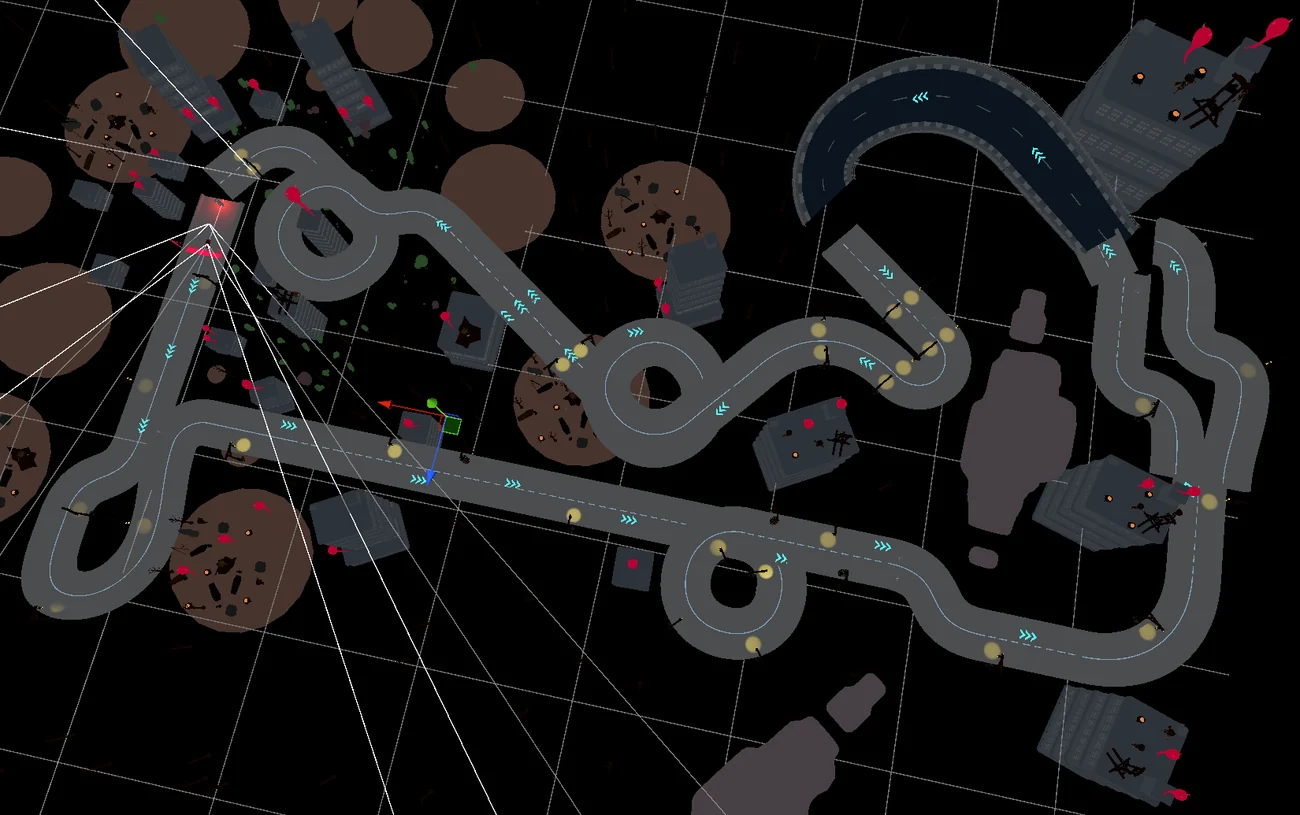
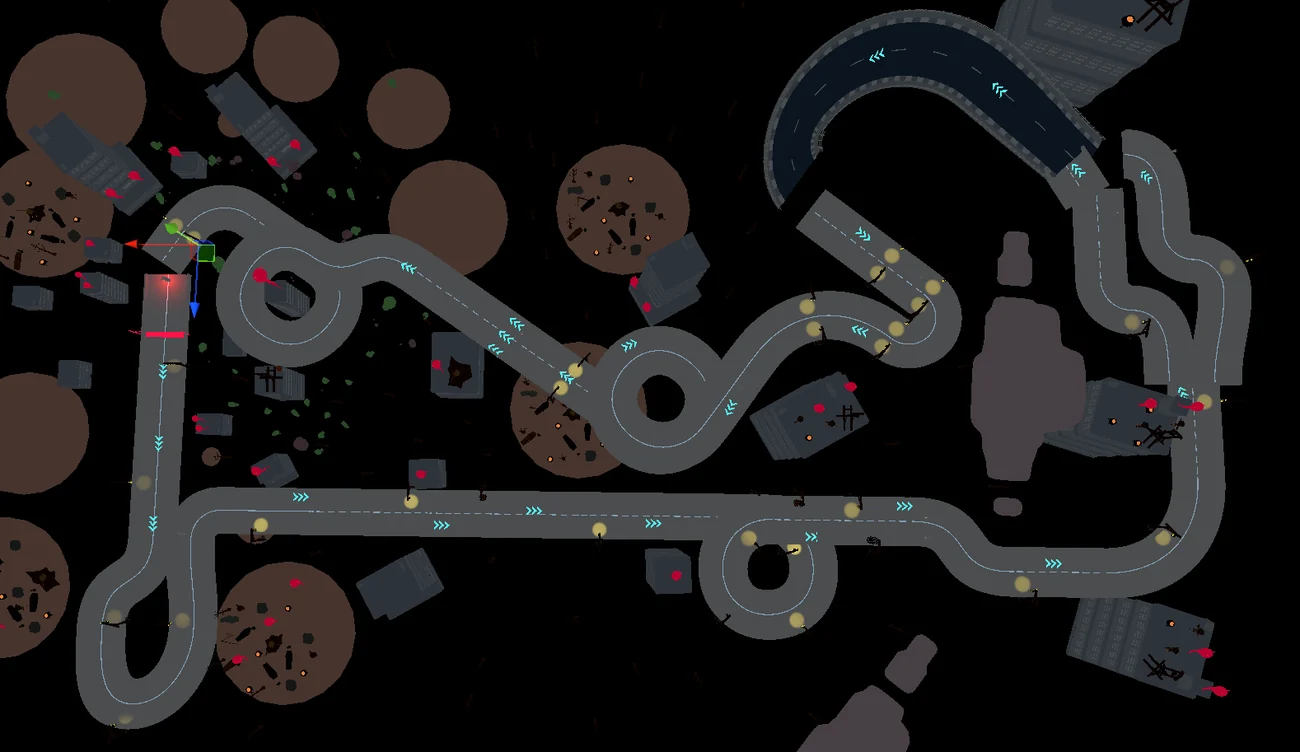
Devouring Priest : nouveau plan du circuit sans lignes, repères recalés

diff --git a/index.html b/index.html
@@ -565,11 +565,11 @@
       <div class="pm-section-title">Le circuit</div>
       <div class="circ-fig">
         <img class="pm-img" src="assets/img/projets/priest/circuit.webp" alt="Plan du circuit vu du dessus, avec repères" loading="lazy" decoding="async" style="width:100%;max-height:none;margin:0"/>
-        <span class="circ-m" style="left:19.5%;top:24.5%">1</span>
-        <span class="circ-m" style="left:21.5%;top:35.5%">2</span>
-        <span class="circ-m" style="left:39.4%;top:57.0%">3</span>
-        <span class="circ-m" style="left:67.8%;top:64.0%">3</span>
-        <span class="circ-m" style="left:74.0%;top:13.0%">4</span>
+        <span class="circ-m" style="left:15.5%;top:37.2%">1</span>
+        <span class="circ-m" style="left:15.5%;top:44.4%">2</span>
+        <span class="circ-m" style="left:23.1%;top:64.8%">3</span>
+        <span class="circ-m" style="left:69.6%;top:65.0%">3</span>
+        <span class="circ-m" style="left:72.2%;top:6.0%">4</span>
       </div>
       <div style="display:flex;flex-wrap:wrap;gap:.4rem .9rem;margin:.7rem 0 1.2rem">
         <span style="font-family:'DM Sans',sans-serif;font-size:.78rem;color:var(--grey-light)"><b>1</b> Le prêtre apparaît derrière le joueur</span>
